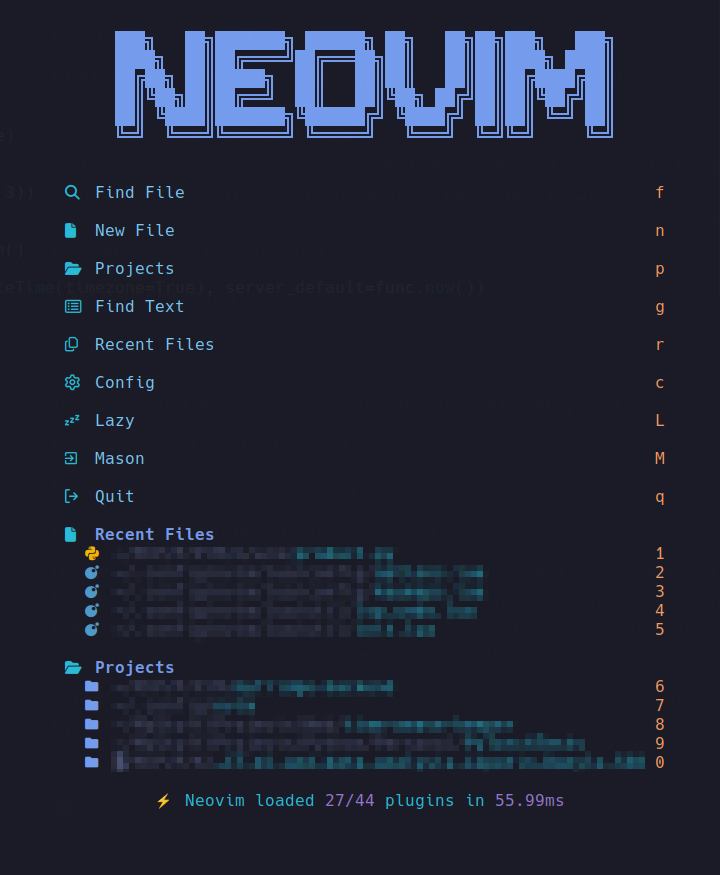
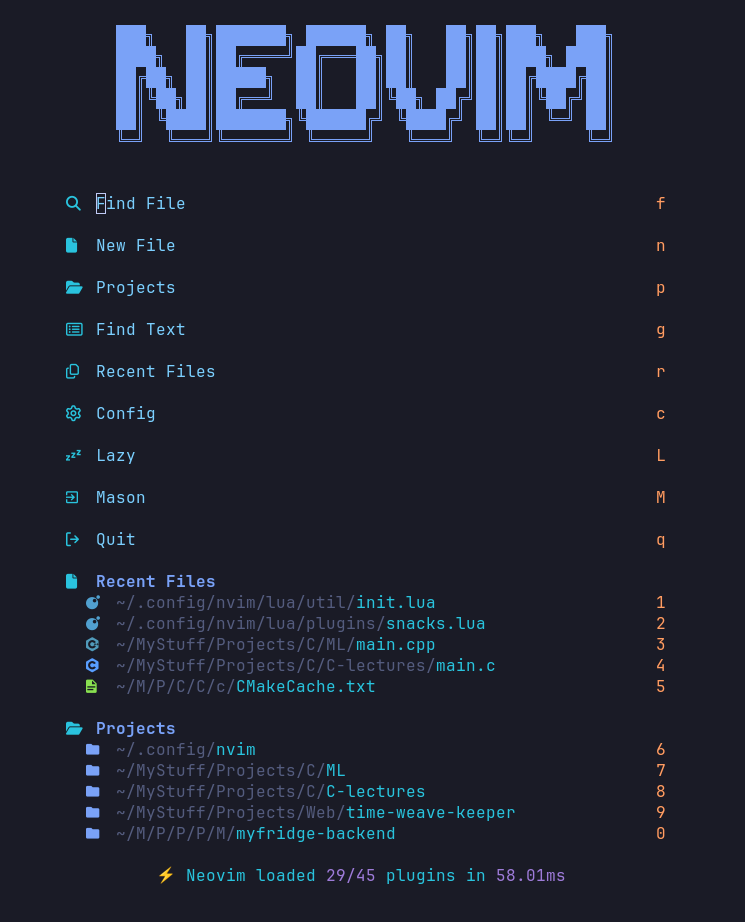
docs(readme): sync plugins, keymaps and structure with the config
treesitter is on the main branch, not master; vim-surround, mini.comment,
snacks.input and snacks.image were undocumented; overseer sat in the UI
table instead of next to toggleterm. Also adds the missing gc, g*/g#,
<C-LeftMouse> and terminal <C-q> mappings and the full dashboard hotkey
list, and refreshes the screenshot.

diff --git a/README.md b/README.md
@@ -38,7 +38,7 @@ in `lua/plugins/lang.lua`.
 ## Quick start
 
 ```bash
-git clone <repo-url> ~/.config/nvim
+git clone https://github.com/Danylo37/nvim-config ~/.config/nvim
 nvim
 ```
 
@@ -50,7 +50,8 @@ progress indicator in the corner to disappear. From there:
 - `:checkhealth` — start here if something isn't working
 
 The dashboard opens by itself when you launch Neovim without a file — it also lists
-the hotkeys (`f`/`p`/`g`/`r`/`c`).
+its hotkeys: `f` files, `n` new file, `p` projects, `g` grep, `r` recent files,
+`c` config, `L` Lazy, `M` Mason, `q` quit.
 
 ## Structure
 
@@ -58,25 +59,25 @@ the hotkeys (`f`/`p`/`g`/`r`/`c`).
 init.lua                    -- entry point: options -> keymaps -> autocmds -> lazy.nvim bootstrap
 
 lua/config/
-  options.lua                -- vim.opt, indent, leader
-  keymaps.lua                -- EVERY keymap in the config, one file
-  autocmds.lua                -- indent overrides for lua/js/ts/html/css/json/yaml
+  options.lua               -- vim.opt, indent, leader
+  keymaps.lua               -- EVERY keymap in the config, one file
+  autocmds.lua              -- indent overrides for lua/js/ts/html/css/json/yaml
 
-lua/plugins/                 -- one file per plugin theme
-  lsp.lua                     -- mason, lspconfig, lspsaga, trouble
-  completion.lua               -- nvim-cmp, autopairs
-  editor.lua                  -- treesitter, flash, multicursor, harpoon, grug-far, conform
-  files.lua                   -- neo-tree
-  git.lua                     -- gitsigns
-  lang.lua                    -- venv-selector, jupytext, render-markdown
-  ai.lua                      -- windsurf, copilot, claudecode
-  terminal.lua                -- toggleterm
-  snacks.lua                  -- dashboard and its project picker
-  ui.lua                      -- theme, statusline, tabs, which-key, notifications, etc.
+lua/plugins/                -- one file per plugin theme
+  lsp.lua                   -- mason, lspconfig, lspsaga, trouble
+  completion.lua            -- nvim-cmp, autopairs
+  editor.lua                -- treesitter, flash, multicursor, harpoon, grug-far, conform, surround, comment
+  files.lua                 -- neo-tree
+  git.lua                   -- gitsigns
+  lang.lua                  -- venv-selector, jupytext, render-markdown
+  ai.lua                    -- windsurf, copilot, claudecode
+  terminal.lua              -- toggleterm, overseer
+  snacks.lua                -- dashboard, picker, input, image, lazygit
+  ui.lua                    -- theme, statusline, tabs, which-key, notifications, etc.
 
 lua/util/
-  init.lua                    -- project root lookup (util.root / util.find_root)
-  lsp_undo.lua                 -- undo multi-file LSP edits (<leader>ru)
+  init.lua                  -- project root lookup (util.root / util.find_root)
+  lsp_undo.lua              -- undo multi-file LSP edits (<leader>ru)
 ```
 
 ## Plugins
@@ -89,13 +90,15 @@ lua/util/
 | `lspsaga.nvim` | floating windows for definition/finder/rename/code action/line diagnostics |
 | `trouble.nvim` | persistent panel for diagnostics/references/quickfix at the bottom |
 | `conform.nvim` | formatting: stylua (Lua), ruff/black (Python), prettier (JS/TS/HTML/CSS/JSON/YAML/MD), sql_formatter |
-| `nvim-treesitter` | syntax highlighting and indent via parsers (pinned to `master`) |
+| `nvim-treesitter` | syntax highlighting and indent via parsers (`main` branch, wired by hand) |
 
-### Completion and AI
+### Completion, editing and AI
 | Plugin | What it's for |
 |---|---|
 | `nvim-cmp` + `cmp-nvim-lsp`/`cmp-buffer`/`cmp-path` | autocompletion |
 | `nvim-autopairs` | auto-closes brackets/quotes |
+| `vim-surround` | adds/changes/removes surrounding quotes and brackets (`ys`/`cs`/`ds`) |
+| `mini.comment` | comments lines and motions with `gc` |
 | `windsurf.vim` | inline AI suggestions, no monthly quota (`:Codeium Auth` once) |
 | `copilot.vim` | inline GitHub Copilot suggestions, installed but disabled by default |
 | `claudecode.nvim` | Claude Code inside the editor |
@@ -123,7 +126,7 @@ lua/util/
 | `jupytext.nvim` | opens `.ipynb` files as plain python |
 | `render-markdown.nvim` | renders markdown right in the buffer |
 
-### UI
+### UI and tools
 | Plugin | What it's for |
 |---|---|
 | `tokyonight.nvim` | color scheme |
@@ -135,6 +138,8 @@ lua/util/
 | `nvim-colorizer.lua` | highlights colors (`#fff`, `rgb(...)`) inline |
 | `noice.nvim` + `nvim-notify` | nicer cmdline and notifications |
 | `nvim-scrollbar` + `nvim-hlslens` | scrollbar with git/diagnostic/search marks, plus a match counter while searching |
+| `snacks.input` | floating replacement for `vim.ui.input` prompts |
+| `snacks.image` | inline image previews in the buffer and in the picker |
 | `toggleterm.nvim` | built-in terminal |
 | `overseer.nvim` | task runner: make/npm/cargo/shell tasks with a status list |
 | `snacks.terminal` | opens the `lazydocker` TUI in a float |
@@ -149,10 +154,11 @@ Leader is **Space**. The full list lives in `lua/config/keymaps.lua` (with `desc
 |---|---|
 | `<Esc>` | Clear search highlight |
 | `n` / `N` | Next / previous search match (with counter) |
-| `*` / `#` | Search word under cursor |
+| `*` / `#` / `g*` / `g#` | Search word under cursor |
 | `<leader>R` | Save all and restart Neovim |
 | `<leader>F` | Format buffer |
 | `s` | Flash: jump to text |
+| `gc` / `gcc` | Comment a motion / the current line |
 
 ### Windows and buffers
 | Key | Action |
@@ -227,12 +233,14 @@ Leader is **Space**. The full list lives in `lua/config/keymaps.lua` (with `desc
 | `<C-x>` | Skip match |
 | `<C-Up>` / `<C-Down>` | Add cursor above / below |
 | `<leader>ma` | Add cursor to every match |
+| `<C-LeftMouse>` | Add cursor with the mouse |
 | `<C-Left>` / `<C-Right>` / `<C-q>` | Navigate cursors (only while multiple cursors are active) |
 
 ### `<leader>t` — Terminal
 | Key | Action |
 |---|---|
 | `<C-\>` | Toggle terminal (from normal, insert, or terminal mode) |
+| `<C-q>` (terminal) | Leave terminal mode |
 | `<leader>tt` | Terminal at the bottom |
 | `<leader>tf` | Floating terminal |
 | `<leader>ts` | Select terminal |
